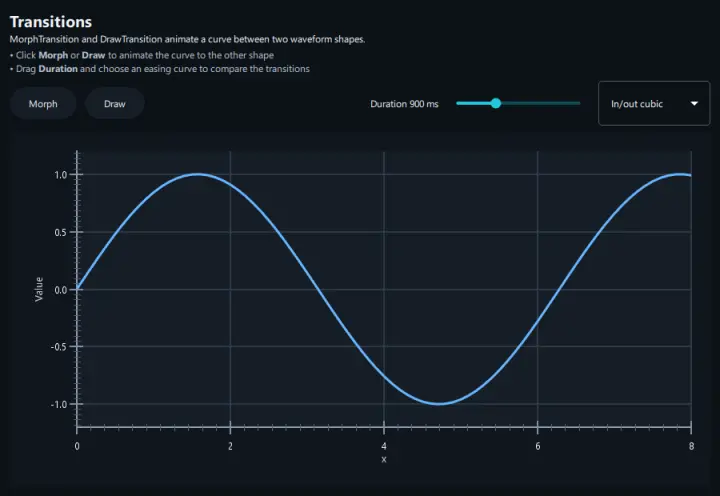
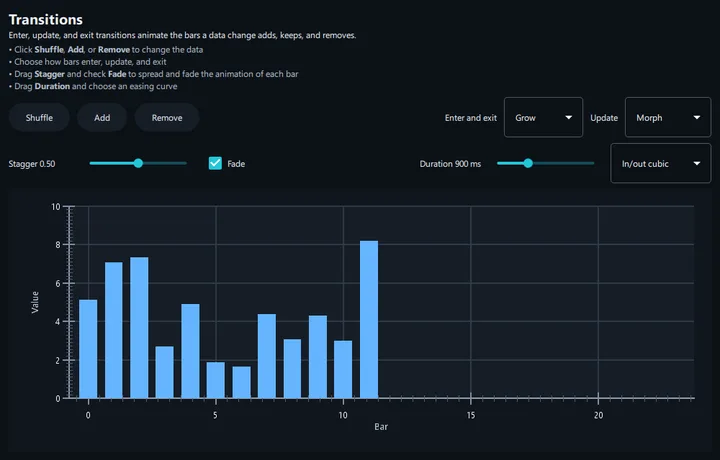
Document enter, update, and exit transitions and the new effects
The styling recipe explains the three transition slots, stagger, fade,
and the cost per frame, and adds a section on Glow and FadeTrail. The
bar chart, point cloud, and error bar recipes, the example gallery, and
the source map follow. The changelog notes the migration from
transition to the three slots and from LineCurveEffect to SeriesEffect.

diff --git a/docs/guide/cookbook/styling.md b/docs/guide/cookbook/styling.md
@@ -1,5 +1,5 @@
 ---
-description: "Style QAccelPlot curves with color palettes, dash patterns, point markers, step lines, gradient fills and strokes, and animated data transitions."
+description: "Style QAccelPlot curves with color palettes, dash patterns, point markers, step lines, gradient fills and strokes, glow and fading trails, and animated data transitions."
 ---
 
 <!--
@@ -149,7 +149,7 @@ Hover still detects a `Pixel` marker within 3 px.
 
 ## Gradient stroke and fill
 
-Effects are attached through the curve's [`effects`][effects] property:
+Effects are attached through the series' [`effects`][effects] property:
 
 ```qml
 QAccelPlot.LineCurve {
@@ -188,34 +188,87 @@ QAccelPlot.GradientStroke {
 Fixed gradient bounds keep colors stable while the viewport changes. Axis- or
 data-derived bounds make colors follow the current range.
 
-## Animated data changes
+## Glow and fading trails
 
-Assign a `QAccelPlot.MorphTransition` to [`transition`][transition] to
-interpolate from old to new data points, or a `QAccelPlot.DrawTransition` to reveal
-the new curve:
+`Glow` draws a soft halo around a series, in the same pass and without a blur.
+`FadeTrail` fades the oldest items, by index, like the trace of an
+oscilloscope:
 
 ```qml
-QAccelPlot.MorphTransition {
-    id: morph
-    duration: 500
-    easing.type: Easing.InOutCubic
-}
-
 QAccelPlot.LineCurve {
-    transition: morph
+    effects: [
+        QAccelPlot.Glow { radius: 8; intensity: 0.6 },
+        QAccelPlot.FadeTrail { length: 0.7 }
+    ]
 }
 ```
 
-Several curves can share one transition; each animates to its own data.
-Replacing, clearing, or cancelling `transition`, or calling `appendData()`,
-during an animation shows the new data at once.
+| Effect | Series | Properties |
+|---|---|---|
+| `Glow` | `LineCurve`, `PointCloud`, `BarSeries`, `ErrorBarSeries` | `color` (default: the series color), `radius` in pixels, `intensity` |
+| `FadeTrail` | `LineCurve`, `PointCloud` | `length`: share of the items that fades, from the oldest; `minOpacity` of the oldest |
 
-`BarSeries` and `PointCloud` take the same transitions; see
-[bar charts](bar-charts.md#animate-data-changes) and
-[point clouds](point-clouds.md#animate-data-changes).
+- An effect a series does not support logs a warning and is ignored.
+- Of several effects of one type, the first enabled one applies.
+- Along a line, the halo follows the distance from the line edge, so turns much
+  tighter than `radius` show small seams. Use a smaller radius for jagged lines.
+- Effect properties animate like any QML property, for example with a
+  `Behavior on intensity`.
 
-Transitions add work on every animated frame. Disable them for continuous
-high-rate updates.
+## Animated data changes
+
+A data change matches the old and new items by index, and three transitions
+animate it:
+
+| Property | Animates | Takes |
+|---|---|---|
+| [`enterTransition`][enter-transition] | Added items, and all items of the first data | `DrawTransition`, `GrowTransition` |
+| [`updateTransition`][update-transition] | Kept items | `MorphTransition`, `DrawTransition`, `GrowTransition` |
+| [`exitTransition`][exit-transition] | Removed items, and all items on `clearData()` | `DrawTransition`, `GrowTransition` |
+
+Items without a transition in their slot change at once.
+
+```qml
+QAccelPlot.BarSeries {
+    enterTransition: QAccelPlot.GrowTransition { stagger: 0.5; fade: true }
+    updateTransition: QAccelPlot.MorphTransition { duration: 300 }
+    exitTransition: QAccelPlot.GrowTransition { duration: 200; fade: true }
+}
+```
+
+- `MorphTransition` moves each kept item from its old values to its new ones.
+- `DrawTransition` reveals items one after another. A line draws its last
+  segment partway.
+- `GrowTransition` grows values from `baseline`: the bar baseline for bars, 0
+  for other series.
+- A `DrawTransition` or `GrowTransition` in `updateTransition` redraws all new
+  items as one sequence; the enter and exit transitions are skipped.
+- An exit plays the transition backwards, the last item first.
+
+Every transition takes `duration`, `easing`, and `stagger`:
+
+- `stagger` is the share of `duration` over which the item start times are
+  spread. 0 animates all items together; 1 animates them one after another.
+  `DrawTransition` defaults to 1, the others to 0.
+- `easing` applies to the progress of each item. With a `stagger` of 1, it
+  shapes how the reveal moves along the items.
+- `fade` on `DrawTransition` and `GrowTransition` fades each item in, or out,
+  over its share of the duration. It needs a `stagger` below 1.
+
+Several series can share one transition, and one series can use a transition in
+several slots. While a transition runs, the series' `animating` is `true`.
+Replacing, clearing, or cancelling a transition, or calling `appendData()`,
+shows the new data at once. Data that arrives during an animation continues
+from the items drawn now.
+
+Each animated frame interpolates the data on the CPU: about 4 ms per million
+points, 6 ms with a stagger. Disable transitions for continuous high-rate
+updates.
+
+`BarSeries`, `PointCloud`, and `ErrorBarSeries` take the same transitions; see
+[bar charts](bar-charts.md#animate-data-changes),
+[point clouds](point-clouds.md#animate-data-changes), and
+[error bars](error-bars.md#animate-data-changes).
 
 Complete sources:
 
@@ -223,9 +276,12 @@ Complete sources:
 - [`examples/styling/line_styles`](https://github.com/michalgrabarczyk/QAccelPlot/tree/main/examples/styling/line_styles)
 - [`examples/styling/markers`](https://github.com/michalgrabarczyk/QAccelPlot/tree/main/examples/styling/markers)
 - [`examples/styling/gradients`](https://github.com/michalgrabarczyk/QAccelPlot/tree/main/examples/styling/gradients)
+- [`examples/styling/effects`](https://github.com/michalgrabarczyk/QAccelPlot/tree/main/examples/styling/effects)
 - [`examples/styling/transitions`](https://github.com/michalgrabarczyk/QAccelPlot/tree/main/examples/styling/transitions)
 - [`examples/plot_types/step_lines`](https://github.com/michalgrabarczyk/QAccelPlot/tree/main/examples/plot_types/step_lines)
 
-[effects]: ../api/classQAccelPlot_1_1LineCurve.md#property-effects-12
+[effects]: ../api/classQAccelPlot_1_1PlotSeries.md#property-effects-12
 [step-mode]: ../api/classQAccelPlot_1_1LineCurve.md#property-stepmode-12
-[transition]: ../api/classQAccelPlot_1_1LineCurve.md#property-transition-12
+[enter-transition]: ../api/classQAccelPlot_1_1LineCurve.md#property-entertransition-12
+[update-transition]: ../api/classQAccelPlot_1_1LineCurve.md#property-updatetransition-12
+[exit-transition]: ../api/classQAccelPlot_1_1LineCurve.md#property-exittransition-12

diff --git a/AGENTS.md b/AGENTS.md
@@ -65,14 +65,14 @@ QAccelPlot/
 │       ├── MathUtils.hpp         — Math utilities
 │       ├── QAccelPlotLogging.*   — Qt logging category
 │       ├── internal/             — Helpers shared across folders or used by PlotView: pointer tracking,
-│       │                           outlined rectangle item, rectangle zoom overlay
+│       │                           outlined rectangle item, rectangle zoom overlay, item fade and glow styles
 │       ├── annotations/          — DataAnchor (attach QML items to data coords)
 │       ├── axis/                 — Axis, AxisLabel and TextLabel (label grouped properties),
 │       │                           AxisTicker, AxisTickPainter, ColorBar,
 │       │                           internal/ (pan and zoom range math, axis label placement)
 │       ├── data/                 — Histogram (binning samples into BarSeries data),
 │       │                           HistogramFactory (QML Histogram singleton)
-│       ├── effects/              — GradientFill, GradientStroke, LineCurveEffect
+│       ├── effects/              — SeriesEffect (base), GradientFill, GradientStroke, Glow, FadeTrail
 │       │                           internal/ (gradient stop reading, coordinates, and value ranges)
 │       ├── export/               — PlotExporter (raster image export),
 │       │                           internal/ (grab sizing, painted-item texture scaling, image file writing)
@@ -100,10 +100,11 @@ QAccelPlot/
 │       │                           LineCurveGapFilter (invalid-sample contract),
 │       │                           SpatialGrid, PointSpatialIndex (hover hit testing),
 │       │                           internal/ (rectangle vertices and geometry, step paths,
-│       │                           heatmap grids, hover index budget, shared series helpers)
+│       │                           heatmap grids, hover index budget, effects list, shared series helpers)
 │       ├── theme/                — ColorPalette (light/dark palette values), Colors QML singleton
-│       └── transitions/          — DataTransition, DrawTransition, MorphTransition,
-│                                   TransitionRunner (drives a transition for one item)
+│       └── transitions/          — DataTransition, EnterExitTransition, DrawTransition, GrowTransition,
+│                                   MorphTransition, TransitionRunner (runs the enter, update, and exit
+│                                   transitions of one item), internal/ (frame engine)
 ├── qml/                          — QML helper types (Plot, Legend, Crosshair, InspectionTooltip,
 │                                   InspectionMarkers)
 ├── shaders/                      — GLSL shaders compiled to .qsb

diff --git a/CHANGELOG.md b/CHANGELOG.md
@@ -11,8 +11,31 @@ The format is based on [Keep a Changelog](https://keepachangelog.com/en/1.1.0/).
 - Axis label placement: `label.alignment`, `label.rotation`, and
   `label.offset` move the painted axis title, and `label.delegate` replaces it
   with a custom QML item. Includes an Axis Labels example.
+- Enter, update, and exit transitions: `enterTransition`, `updateTransition`,
+  and `exitTransition` animate the items a data change adds, keeps, and
+  removes, matched by index. `GrowTransition` grows values from a baseline,
+  `stagger` spreads the items' start times, and `fade` fades items in and out.
+  `clearData()` runs the exit transition. `PlotSeries.animating` reports a
+  running transition. The Transitions example shows them on a bar chart.
+- `Glow` and `FadeTrail` effects: a halo around lines, markers, bars, and
+  error bars, and a fade of the oldest items of a line or point cloud.
+  Includes an Effects example.
+- `effects` on every series. An effect a series does not support logs a
+  warning and is ignored.
 
 ### Changed
+
+- `transition` on `LineCurve`, `BarSeries`, `PointCloud`, and
+  `ErrorBarSeries` is replaced by the three slots. Use
+  `updateTransition: morph` for `transition: morph`, and also set
+  `enterTransition` to animate the first data. A `MorphTransition` no longer
+  moves added items from the last old item; bars no longer grow from the
+  baseline without a `GrowTransition` as `enterTransition`.
+- `LineCurveEffect` is renamed `SeriesEffect`.
+- `DataTransition` can no longer be subclassed outside the library, and its
+  `interpolate()`, `Dataset`, and data-holding `Run` API are gone.
+  `TransitionRunner` takes a slot in `transition()` and `setTransition()`, and
+  `start()` takes a `TransitionRunner::Layout`.
 
 - `Axis.label` and `ColorBar.label` are grouped properties. Use `label.text`,
   `label.font`, `label.color`, and `label.padding` instead of `label`,

diff --git a/docs/guide/cookbook/point-clouds.md b/docs/guide/cookbook/point-clouds.md
@@ -146,20 +146,22 @@ Post no faster than frames are presented; see
 
 ## Animate data changes
 
-Assign a `MorphTransition` or a `DrawTransition` to `transition`, as for a
+Set `enterTransition`, `updateTransition`, and `exitTransition`, as for a
 [`LineCurve`](styling.md#animated-data-changes).
 
-- `MorphTransition` moves each point to the new position of the same index.
-  Values change with it when the old and the new points both have them, so
-  the colors blend through the colormap.
-- `DrawTransition` shows the new points one after another.
-- New points appear, and removed points disappear, at once.
+- `MorphTransition` moves each kept point to the new position of the same
+  index. Values change with it when the old and the new points both have them,
+  so the colors blend through the colormap.
+- `GrowTransition` raises points from Y = 0, or from its `baseline`.
+- `DrawTransition` shows the points one after another.
+- A staggered transition follows the point order. Sort the points, for example
+  by X, to sweep across the plot.
 - `count`, `pointAt()`, `valueAt()`, the data and value ranges, and inspection
   use the new data from the start of the animation. Hover picks the points as
   drawn.
 - `setValues()` animates too. Called after `setData()`, it keeps that
   animation, with the points in their new colors.
-- `clearData()` shows the new data at once.
+- `clearData()` runs the exit transition.
 - While a transition is enabled, the float paths store doubles.
 
 ## Invalid points

diff --git a/docs/guide/cookbook/error-bars.md b/docs/guide/cookbook/error-bars.md
@@ -125,18 +125,19 @@ worker-thread handoff, and data bounds, see
 
 ## Animate data changes
 
-Assign a `MorphTransition` or a `DrawTransition` to `transition`, as for a
+Set `enterTransition`, `updateTransition`, and `exitTransition`, as for a
 [`LineCurve`](styling.md#animated-data-changes). Give the series that draws the
-values the same transition, so both move together.
+values the same transitions, so both move together.
 
-- `MorphTransition` moves each error bar to the new position, value, and bounds
-  of the same index.
-- `DrawTransition` shows the new error bars one after another.
-- New error bars appear, and removed ones disappear, at once.
+- `MorphTransition` moves each kept error bar to the new position, value, and
+  bounds of the same index.
+- `GrowTransition` grows the value and both bounds from its baseline; the
+  position stays.
+- `DrawTransition` shows the error bars one after another.
 - `count`, `errorBarAt()`, the data ranges, and inspection use the new data
   from the start of the animation. Hover picks the error bars as drawn.
-- `appendData()`, `appendErrorData()`, and `clearData()` show the new data at
-  once.
+- `appendData()` and `appendErrorData()` show the new data at once;
+  `clearData()` runs the exit transition.
 - While a transition is enabled, the float paths store doubles.
 
 ## Invalid data points

diff --git a/docs/guide/cookbook/bar-charts.md b/docs/guide/cookbook/bar-charts.md
@@ -162,15 +162,17 @@ returns its `position`, `value`, `category`, and `categoryName`; a ranged bar ha
 
 ## Animate data changes
 
-Assign a `MorphTransition` or a `DrawTransition` to `transition`, as for a
+Set `enterTransition`, `updateTransition`, and `exitTransition`, as for a
 [`LineCurve`](styling.md#animated-data-changes).
 
-- `MorphTransition` moves each bar to its new position and value. New bars
-  grow from `baselineValue`, and removed bars shrink to it.
-- `DrawTransition` shows the new bars one after another.
+- `GrowTransition` grows added bars from `baselineValue`, or from the edge of
+  the value axis when the baseline is infinite, and shrinks removed bars to it.
+- `MorphTransition` moves each kept bar to its new position and value.
+- `DrawTransition` shows the bars one after another.
+- Bars that change between ranged and (position, value) all enter.
 - `count`, `barAt()`, the data ranges, hover, and inspection use the new data
   from the start of the animation.
-- `clearData()` shows the new data at once.
+- `clearData()` runs the exit transition.
 - While a transition is enabled, the float paths store doubles.
 
 ## Feed data from C++

diff --git a/docs/guide/cookbook/index.md b/docs/guide/cookbook/index.md
@@ -18,7 +18,7 @@ Each recipe links to a complete runnable example.
 | [Axis formats](axis-formats.md) | Date/time, categories, logarithmic scales, and custom labels |
 | [Axis labels](axis-labels.md) | Label alignment, rotation, padding, and custom label items |
 | [Multiple axes](multiple-axes.md) | Secondary scales and signals with different domains |
-| [Styling and transitions](styling.md) | Dashes, markers, gradients, fills, and animated updates |
+| [Styling and transitions](styling.md) | Dashes, markers, gradients, fills, glow, and animated updates |
 | [Annotations and tools](annotations.md) | Data-attached labels, regions, measurement tools, and mouse handling |
 | [Data inspection](data-inspection.md) | Crosshair, tooltip, nearest-data-point queries, region statistics, and selection |
 | [Point clouds](point-clouds.md) | Large unconnected scatter data, coloring points by value, color bars, and hover picking |

diff --git a/docs/guide/examples.md b/docs/guide/examples.md
@@ -138,11 +138,17 @@ Each executable is named after its example, for example
 
     Gradient area fills and strokes with presets, direction, and baseline.
 
+-   ![Effects](assets/examples/effects.webp)
+
+    **[Effects](https://github.com/michalgrabarczyk/QAccelPlot/tree/main/examples/styling/effects)**
+
+    Glow and fading trail on a streaming trace and a point cloud. Recipe: [Styling](cookbook/styling.md#glow-and-fading-trails).
+
 -   ![Transitions](assets/examples/transitions.webp)
 
     **[Transitions](https://github.com/michalgrabarczyk/QAccelPlot/tree/main/examples/styling/transitions)**
 
-    Morph and draw animations between datasets.
+    Bars that enter, update, and exit with grow, draw, and morph transitions, staggered and faded.
 
 -   ![Theming](assets/examples/theming.webp)
 

diff --git a/docs/guide/index.md b/docs/guide/index.md
@@ -26,7 +26,9 @@ frame.
 - **Invalid data points** — `NaN`, `±Inf`, and non-positive log values break or
   connect the curve consistently
 - **Curves** — solid, dashed, and marker-only styles; gradient fills and
-  strokes; morph and draw transitions
+  strokes; glow and fading trails
+- **Transitions** — enter, update, and exit animations that morph, draw, or
+  grow items, with stagger and fade
 - **Point clouds** — `PointCloud` for large scatter data, colored uniformly or
   by value, with a `ColorBar`
 - **Heatmaps** — `HeatmapSeries` for grids of values colored through a
